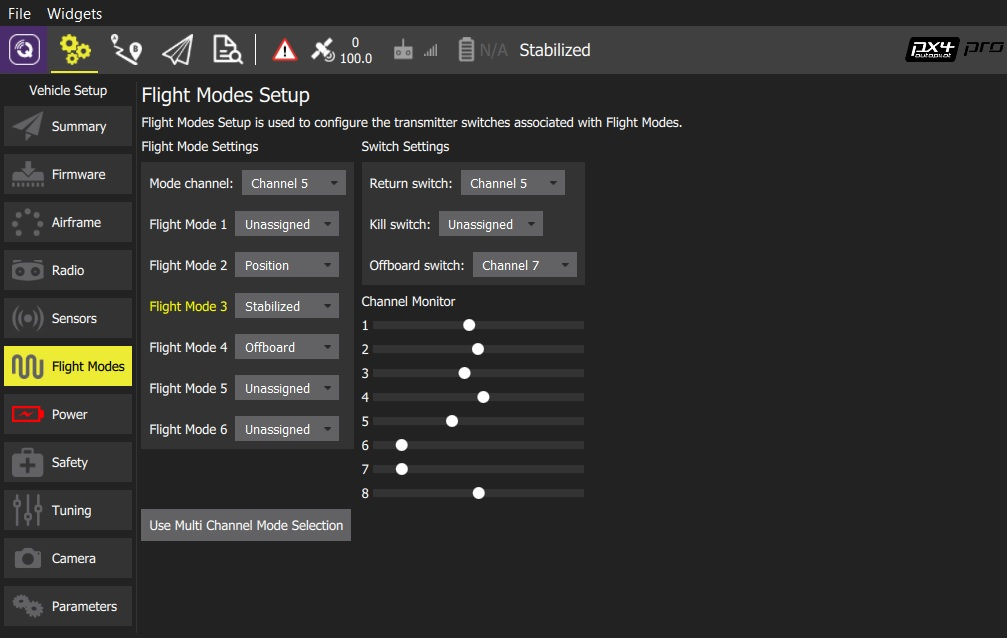
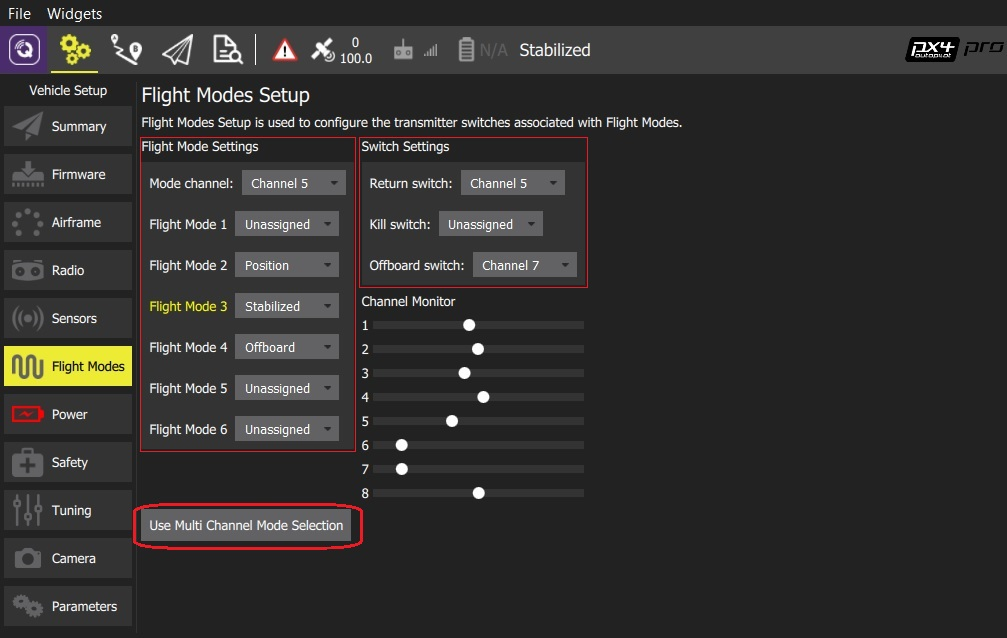
Add flight mode docs

Changed region(s): [[0.1231, 0.2085, 0.5849, 0.4765], [0.1231, 0.7743, 0.3694, 0.8636], [0.1231, 0.685, 0.3386, 0.7147]]

diff --git a/en/config/flight_mode.md b/en/config/flight_mode.md
@@ -1,47 +1,56 @@
 # Flight Mode Configuration
 
-[Flight Modes](../flight_modes/README.md) provide different types of *autopilot-assisted* flight, and fully autonomous flight via missions or offboard (companion computer) control. Flight modes allow new users to learn flying with a more forgiving platform than provided by basic RC control alone. They also enable automation of common tasks like taking off and landing.
+[Flight Modes](../flight_modes/README.md) provide different types of *autopilot-assisted flight*, and *fully autonomous flight* via missions or offboard (companion computer) control. Different flight modes allow new users to learn flying with a more forgiving platform than provided by basic RC control alone. They also enable automation of common tasks like taking off, landing and returning to the original launch position.
 
 PX4 allows you to select flight modes from a ground station (tablet or desktop) or from a radio control transmitter. If radio control and tablet are both connected, either system can change the mode and override the previous setting.
 
-> **Note** You must already have [configured your radio](TBD) in order to set flight modes.
+This topic explains how to map flight modes to the switches on your radio control transmitter.
+
+> **Note** You must already have [configured your radio](../config/radio.md) in order to set flight modes.
 
 
 ## What Flight Modes Should I Set?
 
-New users may wish to configure their radio control receiver to support one or more of the following three modes (these make the vehicle much easier to fly):
+You can set any (or none) of the flight modes [described here](../flight_modes/README.md).
 
-- **Position** - When sticks are released the vehicle will stop (and hold position against wind drift).
+New users should consider setting one or more of the following modes, which make the vehicle much easier to fly:
+
 - **Stabilized** - Vehicle hard to flip, and will level-out if the sticks are released (but not hold position).
+- **Position** - When sticks are released the vehicle will stop (and hold position against wind drift).
 - **Altitude** - Climb and drop are controlled to have a maximum rate.
 
-It is also common to map a switch to:
-- [Return To Launch](../flight_modes/rtl.md) - This mode raises the vehicle to a safe height and returns to the launch position.
-- **Mission** - In this mode the aircraft obeys a programmed mission sent by the ground control station.
+It is also common to map switches to:
 
-Some operators may also wish to enable:
+- [Return To Launch](../flight_modes/rtl.md) - This mode raises the vehicle to a safe height and returns to the launch position.
+- **Mission** - This mode runs a pre-programmed mission sent by the ground control station.
+
+Some pilots may also wish to enable:
 
 <span id="kill-switch">
-- *Kill Switch* - Immediately stops all motor outputs. The vehicle will crash, which may in some circumstances be more desirable than allowing it to continue flying.
+- **Kill Switch** - Immediately stops all motor outputs. The vehicle will crash, which may in some circumstances be more desirable than allowing it to continue flying.
 
-You can find a description of [all Flight Modes here](../flight_modes/README.md).
 
-## Multi Channel vs Single Channel
 
-*QGroundControl*/*PX4* allows you to use a radio controller that encodes multiple individual switches into their own receiver channels ("multi-channel") or that map multiple switches or a dial into a single channel (single-channel). Some transmitters are configurable, and so you can use whichever approach you prefer.
+## Multi Channel vs Single Channel Mode Selection
 
-> **Note** What type of transmitter you have and how it maps channels to switches will be covered in your transmitter/receiver documentation.
+*PX4* (*QGroundControl*) supports two modes for mapping flight modes to transmitter switches/dials:
 
+- **Single Channel Mode Selection:** Assign up to 6 flight modes to switch positions encoded in a single channel.
+- **Multi Channel Mode Selection:** Assign modes to switch positions encoded in one or more channels. Some modes are hard coded to share channels, or are defined/set automatically based on other mode selections (the behaviour of multi-channel mode selection can sometimes be confusing). 
+
+> **Tip** The recommended approach is use *Single Channel Mode Selection* because it easy to understand and configure. 
+
+<span id="single_channel"></span>
 ## Single-Channel Flight Mode Selection
 
-A single-channel system encodes multiple switches/switch positions on your transmitter to different PWM values in a single channel. Q*GroundControl* allows you to specify this channel and then map up to 6 flight modes for the encoded PWM values. You can also separately specify channels for kill, return to launch, and offboard mode switches. 
+The single-channel selection mode allows you to specify a "mode" channel and select up to 6 flight modes that will be activated based on the PWM value of the channel. You can also separately specify channels for mapping a kill switch, return to launch mode, and offboard mode.
 
-A channel monitor allows you to view the values on the channels, and confirm that they modify the selected mode/switches as you expect.
+> **Note** In order to use approach you will first need to configure your *transmitter* to encode the physical positions of your mode switch(es) into a single channel. We provide a video guide of how this is done for the popular *Taranis* transmitter [below](#taranis_setup) (check your documentation if you use a different transmitter). 
 
-To configure a single channel radio system:
+To configure single-channel flight mode selection:
 
-1. Turn on your RC transmitter.
 1. Start *QGroundControl* and connect the vehicle.
+1. Turn on your RC transmitter.
 1. Select the **Gear** icon (Vehicle Setup) in the top toolbar and then **Flight Modes** in the sidebar.
    
    ![Flight modes multi-channel](../../images/qgc/setup/flight_modes_single_channel.jpg)
@@ -49,28 +58,37 @@ To configure a single channel radio system:
    > **Tip** If the screen opens in *Multi Channel Mode* click the **Use Single Channel Mode Selection** button to change screen.
    
 1. Specify *Flight Mode Settings*:
-   * Select the **Mode channel** (above this shown as Channel 5). 
-   * Select up to 6 **Flight Modes**, mapping to every switch encoded in the channel.
+   * Select the **Mode channel** (above this shown as Channel 5, but this will depend on your transmitter configuration). 
+   * Select up to six **Flight Modes**.
 1. Specify *Switch Settings*:
-   * Select the channels for *Return To Launch* mode, *Kill Switch*, and *offboard* mode (if you have spare switches and channels).
-1. Move the transmitter switches to the position desired for each mode. Confirm that the specified channels move with your switch positions and map to the flight modes (these turn yellow when selected). 
-
-Mode values are automatically saved as you set them.
-
-> **Tip** The *FrSky Taranis* is a very popular (and highly recommended) RC transmitter. It is common to use the positions of a 2- and a 3-position switch to encode the 6 flight modes. The process involves assigning a "logical switch" to each combination of positions of the two real switches. Each logical switch is then assigned to a different PWM value on the same channel.
->
-> The video below shows how this is done, and how to use *QGroundControl* to map the switches (PWM values) to modes.
-> {% youtube %}
-> http://www.youtube.com/watch?v=scqO7vbH2jo
-> {% endyoutube %}
+   * Select channels for *Return To Launch* mode, *Kill Switch*, and *offboard* mode (if you have spare switches and channels on your transmitter).
+1. Test that the modes are mapped to the right transmitter switches:
+   * Check the *Channel Monitor* to confirm that the expected channel is changed by each switch.
+   * Select each mode switch on your transmitter in turn, and check that the desired flight mode is activated (the text turns yellow on *QGroundControl* for the active mode).
 
 
+All values are automatically saved as they are changed.
 
+<span id="taranis_setup"></span>
+### Video Example (including Transmitter Setup)
+
+It is common to use the positions of a 2- and a 3-position switch on the transmitter to represent the 6 flight modes, and encode each combination of switches as a particular PWM value for the mode that will be sent on a single channel. 
+
+The video below shows how this is done with the *FrSky Taranis* transmitter (a very popular and highly recommended RC transmitter). The process involves assigning a "logical switch" to each combination of positions of the two real switches. Each logical switch is then assigned to a different PWM value on the same channel.
+
+The video then shows how to use *QGroundControl* to specify the mode channel and map modes to each of the 6 "slots".
+{% youtube %}
+http://www.youtube.com/watch?v=scqO7vbH2jo
+{% endyoutube %}
+
+<span id="multi_channel"></span>
 ## Multi-Channel Flight Mode Selection
 
-Multi-channel systems assign each individual switch to a separate channel. *QGroundControl* allows you to specify the mapping between a mode and a channel, and the threshold PWM value for the channel that causes the mode to be enabled.
+> **Tip** We recommend you use [Single Channel Flight Mode](#single_channel) selection because the Multi Channel selection user interface can be confusing. If you do choose to use this method, then the best approach is to start assigning channels and take note of information displayed by *QGroundControl* following your selection. 
 
-To configure a multi-channel radio system:
+The multi-channel selection UI allows you to map one or more modes to one or more channels. There are some modes (and hence switches) that must always be defined, and the channel to which they must be allocated.
+
+To configure flight modes using the multi-channel UI:
 
 1. Turn on your RC transmitter.
 1. Start *QGroundControl* and connect the vehicle.
@@ -80,16 +98,18 @@ To configure a multi-channel radio system:
    
    > **Tip** If the screen opens in *Single Channel Mode* click the **Use Multi Channel Mode Selection** button to change screen.
    
-1. For each mode that you wish to support, select the appropriate channel (for the switch that you will use to enable it). 
-2. Toggle the switch and note the maximum position of the circle on the associated *Monitor* slider. 
-3. Move the *Threshold* slider to just *below* the maximum position for the switch on the *Monitor* slider (when the switch is turned on the value will be over the threshold, enabling the mode).
-   > **Note** You do not need to move the slider for the *first* mode setting - any non-zero channel value will enable the mode.
-4. Repeat this process for all switches/sliders.
-
-*QGroundControl* also allows you to map several modes to the same channel and differentiate the switch positions using threshold values (if a switch position has a higher value than more than one mode threshold, the mode associated with the *highest* theshold will be enabled). The configuration process for mapping multiple channels is the same as above.
+1. Select the modes you want to assign to your switches and select the associated channel (selected modes will *move* in the UI to be grouped by channel).
+   There are a number of complications on the mode to channel assignments:
+   * Some modes will have a grayed out channel selector because they cannot be disabled and you cannot directly set the value. For example:
+     * *Mission* mode - Has the same channel number as *Hold* (if it is defined), or otherwise the same channel as *Stabilized/Main* mode.
+     * *Altitude* mode - Has the same channel number as *Position Control* (if it is defined), or otherwise the same channel as *Stabilized/Main* mode.
+   * *Assist* mode -  This mode is added to the same channel as *Stabilized/Main* mode if (and only if) *Position Control* is enabled and defined on a different channel than *Stabilized/Main*.
+1. Click the **Generate Thresholds** button. 
+   * This will automatically create threshold values for all modes, spread evenly across each channel for its assigned modes. For example, in the mode assignment shown above, most modes are assigned to mode 5, and you can see that the channel thresholds for each mode are spread evenly across the channel. 
 
 This mode is demonstrated in the [autopilot setup video here](https://youtu.be/91VGmdSlbo4?t=6m53s) (youtube).
 
+> **Note** This flight mode selection mechanism is relatively complicated due to the way that PX4 works out which mode should be selected. You may be able to gain some insight from this [flow chart](https://dev.px4.io/en/concept/flight_modes.html#flight-mode-evaluation-diagram) (PX4 Developer Guide).
 
 
 ## Further Information
